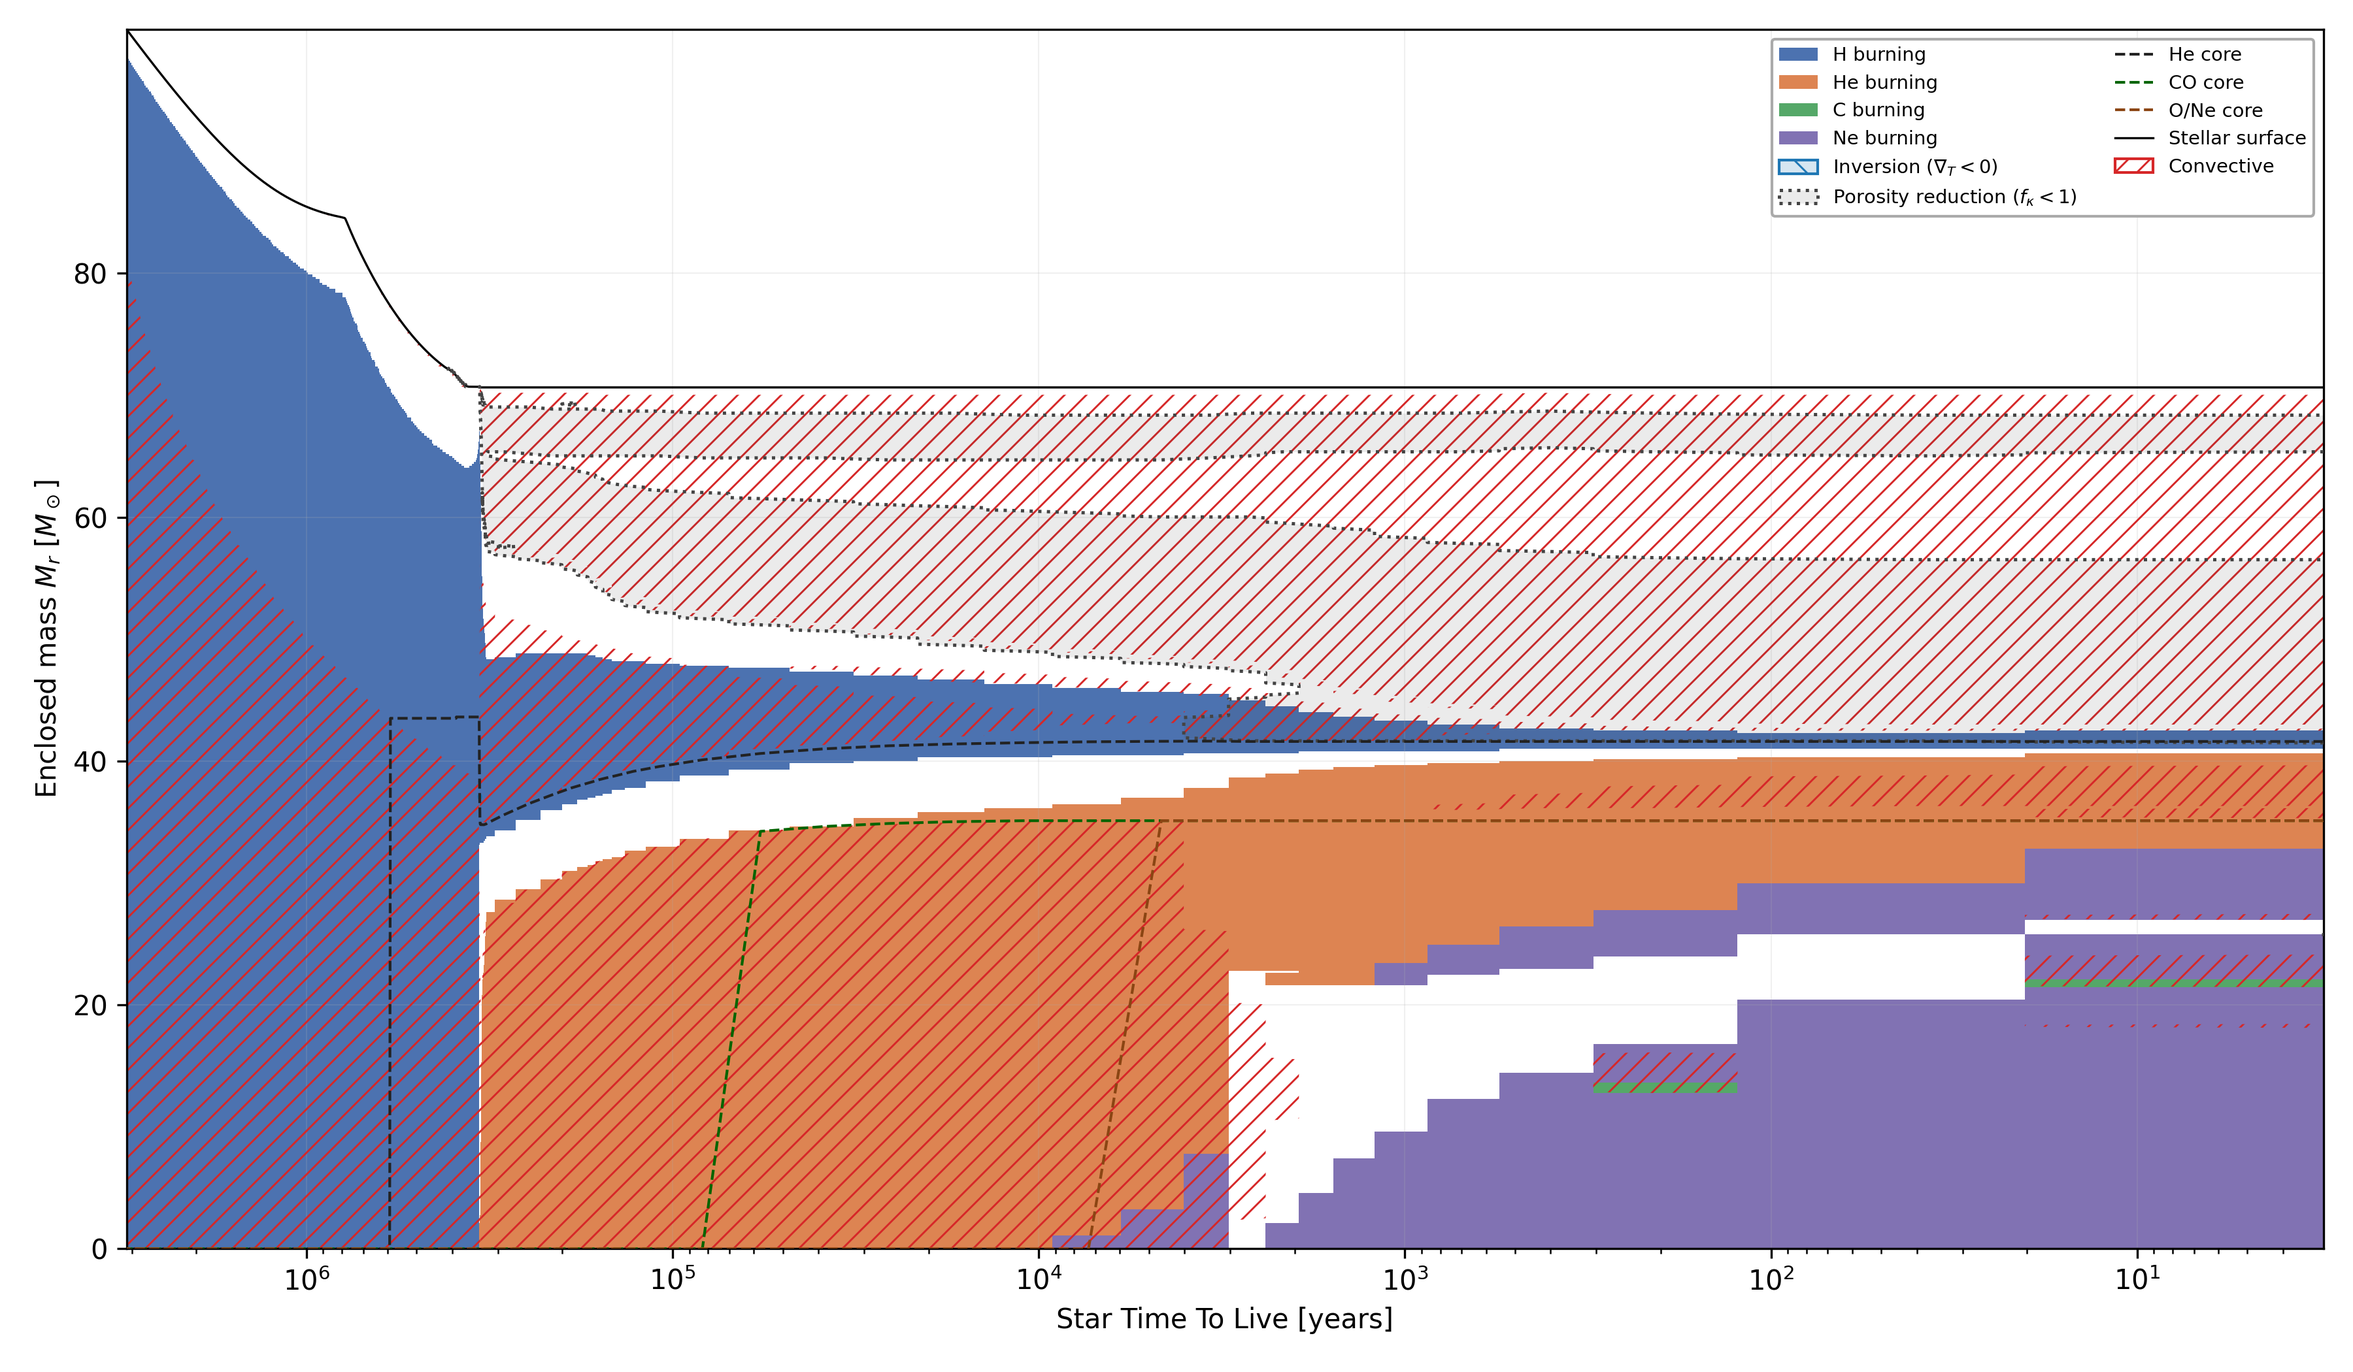
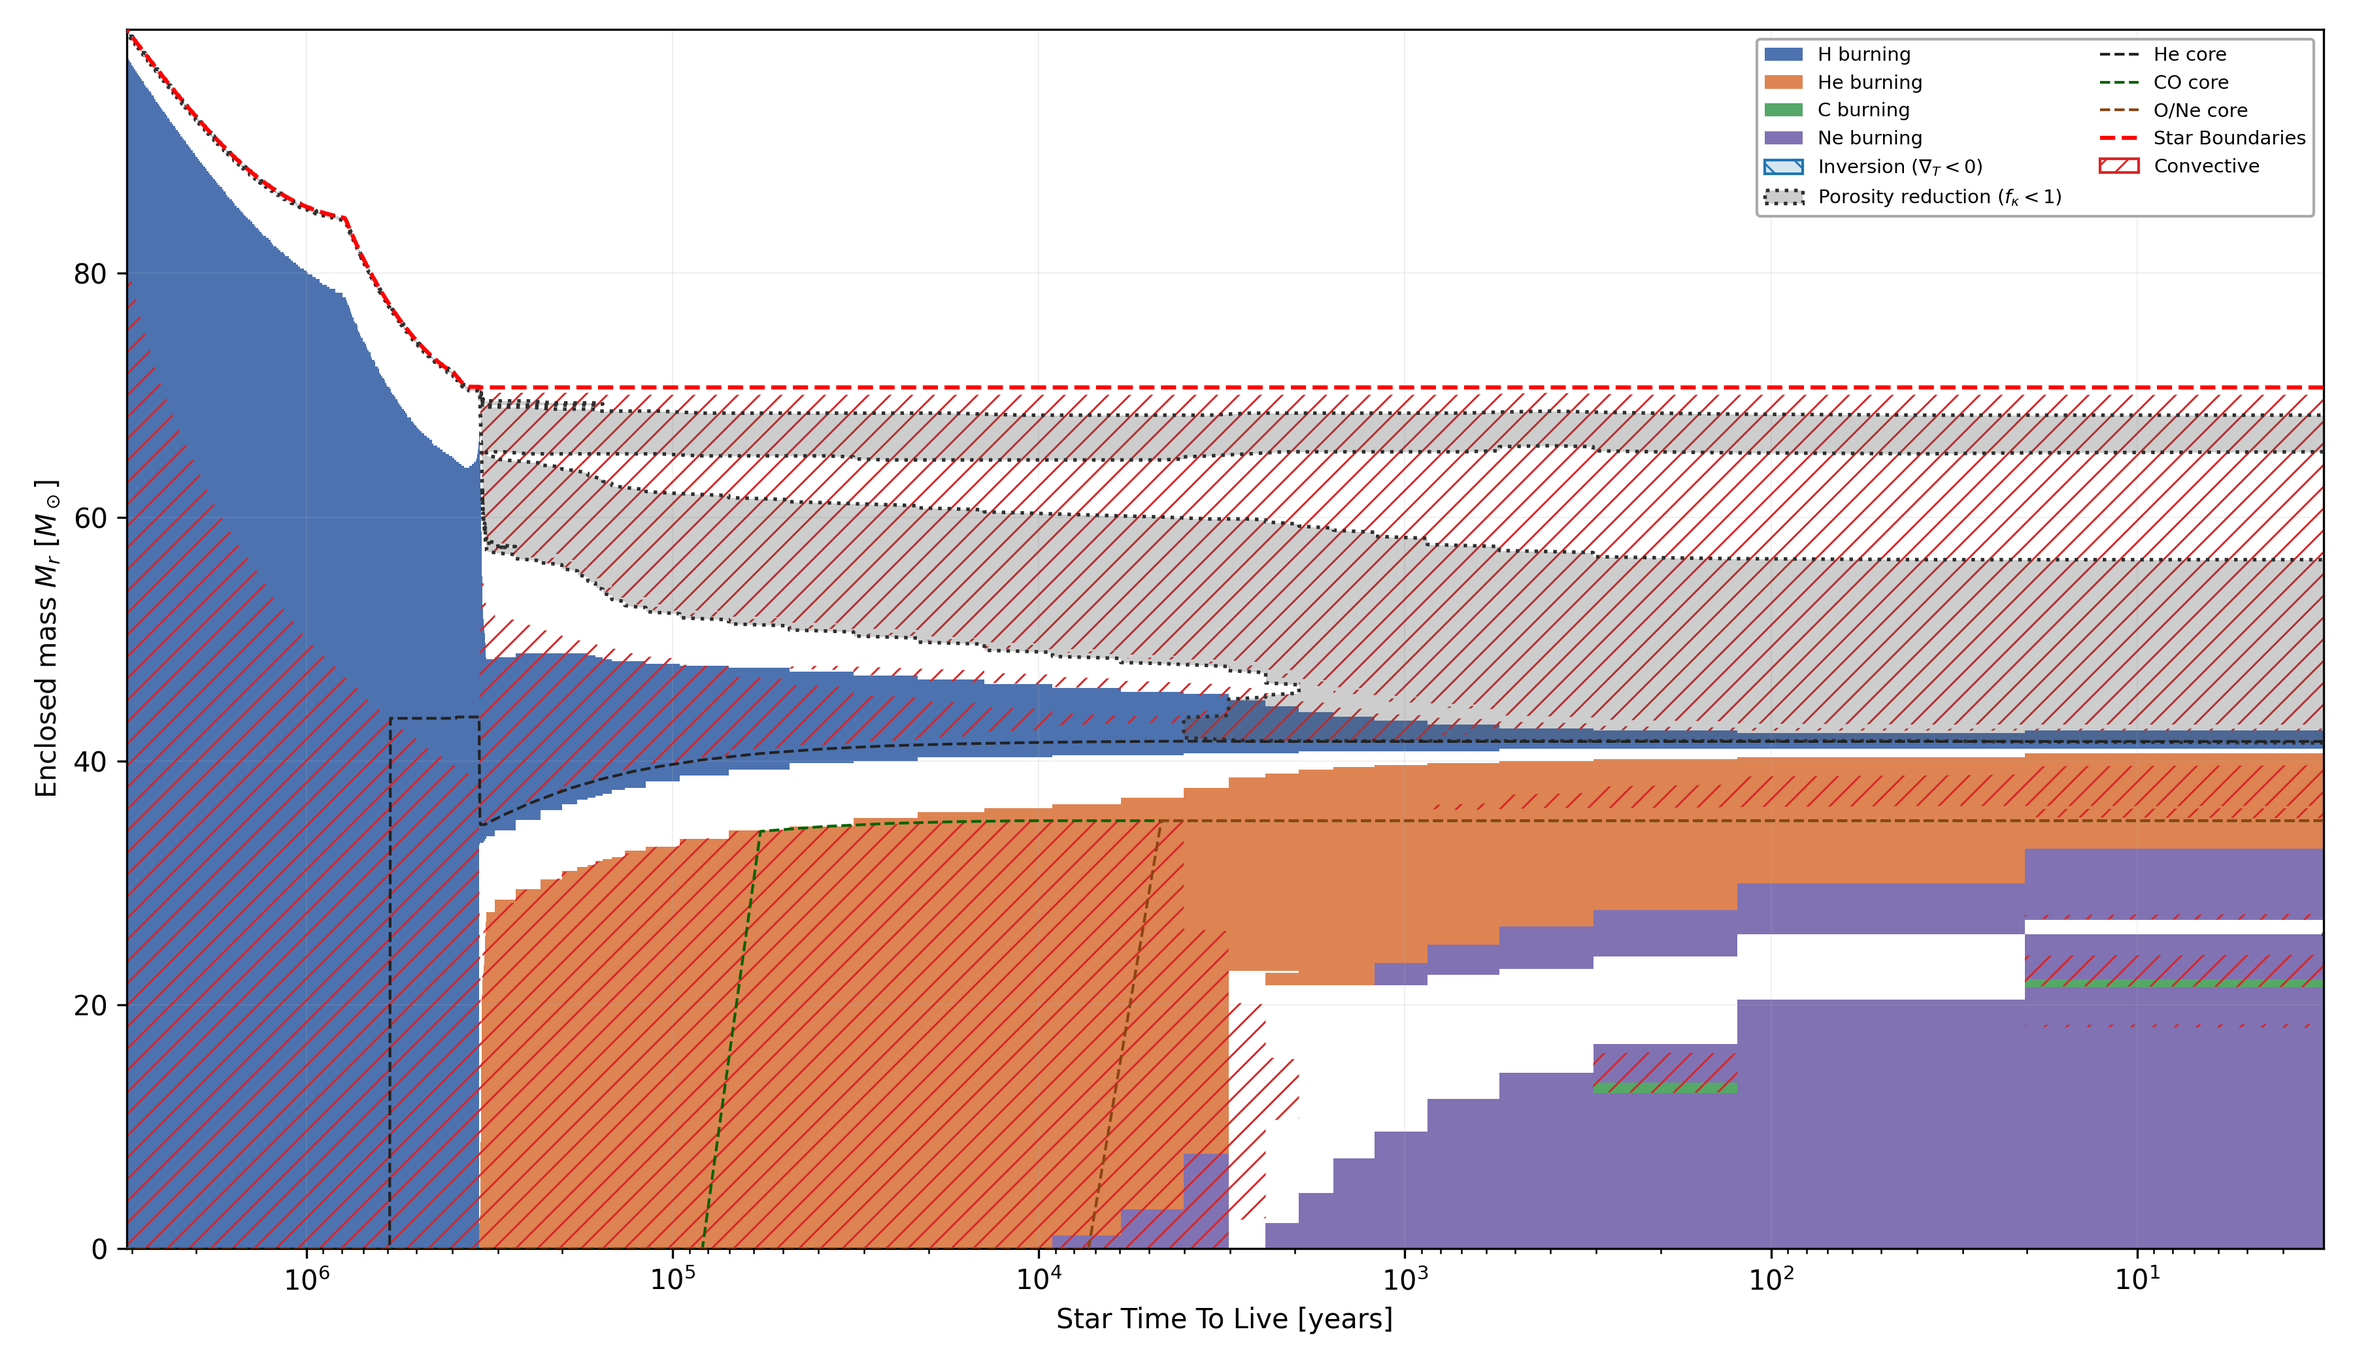
many fixes

diff --git a/kippenhahn_plot.py b/kippenhahn_plot.py
@@ -17,10 +17,6 @@ Encoded regions
 
 The heavy use of hatched, unfilled overlays means the burning colours stay
 readable even where several regions overlap.
-
-When all burning is confined to a very thin layer (for example the shell of a
-nova on a white dwarf), an extra pair of ``_zoom`` plots is produced around
-that layer so it does not vanish against the surface line.
 """
 
 import os
@@ -94,6 +90,10 @@ BURN_THRESHOLD = 1e-4
 # below this value.
 REDUCTION_LIMIT = 1.0 - 1e-6
 
+# Porosity-reduction shading is split into steps of this size (2.5 %).  Each
+# step towards a smaller opacity factor is drawn darker.
+REDUCTION_STEP = 0.025
+
 # Number of mass points in the interpolated Kippenhahn grid.
 DEFAULT_N_Y = 600
 
@@ -127,14 +127,9 @@ class KippenhahnCollector:
         self.burn_all: list[np.ndarray] = []
         self.inv_all: list[np.ndarray] = []
         # ``None`` means this run has no extra_opacity_factor column.
+        # Otherwise each entry is the reduction fraction ``1 - f_kappa`` per
+        # zone, with 0 where there is no reduction.
         self.red_all: list[np.ndarray | None] = []
-        # Enclosed-mass extent of all burning zones (used for an optional zoom
-        # when burning is confined to a very thin layer, e.g. a nova shell).
-        self.burn_min: float | None = None
-        self.burn_max: float | None = None
-        # Enclosed-mass extent of the inversion regions.
-        self.inv_min: float | None = None
-        self.inv_max: float | None = None
 
     # ------------------------------------------------------------------
     def consume(self, prof) -> None:
@@ -185,16 +180,6 @@ class KippenhahnCollector:
             0,
         ).astype(np.int8)
 
-        burning = burn > 0
-        if burning.any():
-            bm = mass[burning]
-            self.burn_min = (
-                float(bm[0]) if self.burn_min is None else min(self.burn_min, float(bm[0]))
-            )
-            self.burn_max = (
-                float(bm[-1]) if self.burn_max is None else max(self.burn_max, float(bm[-1]))
-            )
-
         # --- inversion ------------------------------------------------
         grad_t = _arr(prof, "gradT")
         if grad_t is None:
@@ -203,14 +188,6 @@ class KippenhahnCollector:
             if order is not None:
                 grad_t = grad_t[order]
             inversion = grad_t < 0.0
-        if inversion.any():
-            im = mass[inversion]
-            self.inv_min = (
-                float(im[0]) if self.inv_min is None else min(self.inv_min, float(im[0]))
-            )
-            self.inv_max = (
-                float(im[-1]) if self.inv_max is None else max(self.inv_max, float(im[-1]))
-            )
 
         # --- porosity reduction --------------------------------------
         factor = _arr(prof, "extra_opacity_factor")
@@ -221,7 +198,11 @@ class KippenhahnCollector:
                 factor = factor[order]
             # ``_arr`` turns missing values into 0; a real opacity factor is
             # always positive, so this avoids flagging NaNs as reduction.
-            reduction = (factor > 0.0) & (factor < REDUCTION_LIMIT)
+            reduction = np.where(
+                (factor > 0.0) & (factor < REDUCTION_LIMIT),
+                1.0 - factor,
+                0.0,
+            ).astype(float)
 
         self.model_numbers.append(float(getattr(prof, "model_number")))
         self.star_ages.append(float(getattr(prof, "star_age")))
@@ -266,13 +247,23 @@ class KippenhahnCollector:
             burn = np.full((len(y_grid), len(mn)), np.nan)
             mix = np.full((len(y_grid), len(mn)), np.nan)
             inv = np.zeros((len(y_grid), len(mn)), dtype=bool)
-            red = np.zeros((len(y_grid), len(mn)), dtype=bool)
+            red = np.zeros((len(y_grid), len(mn)), dtype=float)
+            # A porosity-reduction layer can be many orders of magnitude thinner
+            # than one grid cell (e.g. the near-surface layers of the 40 m and
+            # 100 m runs).  Give such layers a minimum on-screen thickness so
+            # their presence is visible instead of falling between grid points.
+            dy = float(y_grid[1] - y_grid[0]) if len(y_grid) > 1 else 0.0
+            red_min_thickness = 1.5 * dy
             for j, m in enumerate(mass_all):
                 burn[:, j] = _map_to_grid(m, burn_all[j], y_grid)
                 mix[:, j] = _map_to_grid(m, mix_all[j], y_grid)
                 inv[:, j] = _map_to_grid(m, inv_all[j].astype(float), y_grid) > 0.5
                 if red_all[j] is not None:
-                    red[:, j] = _map_to_grid(m, red_all[j].astype(float), y_grid) > 0.5
+                    red[:, j] = _reduction_to_grid(
+                        m, red_all[j], y_grid,
+                        min_thickness=red_min_thickness,
+                        surface=m[-1],
+                    )
                 surface[j] = m[-1]
             return burn, mix, inv, red
 
@@ -280,7 +271,7 @@ class KippenhahnCollector:
 
         core_lines = _load_core_lines(mass, name, mn, ymax)
 
-        self._render_pair(
+        self._render_plot(
             mass=mass,
             name=name,
             out_dir=out_dir,
@@ -294,57 +285,10 @@ class KippenhahnCollector:
             surface=surface,
             core_lines=core_lines,
             y_lim=(0.0, ymax),
-            suffix="",
-            title_suffix="",
         )
 
-        # If all burning happens in a very thin layer (e.g. the shell of a
-        # nova), the linear mass axis makes it disappear against the surface.
-        # Add a zoomed pair of plots around that layer.  The same applies to
-        # very thin inversion shells, which the coarse mass grid cannot resolve.
-        thin_target = None
-        thin_lo = None
-        thin_hi = None
-        if (
-            self.burn_min is not None
-            and ymax > 0.0
-            and 0.0 < (self.burn_max - self.burn_min) < 0.02 * ymax
-        ):
-            thin_target, span = "burn", self.burn_max - self.burn_min
-            thin_lo = max(0.0, self.burn_min - 0.15 * span)
-            thin_hi = min(ymax, self.burn_max + 0.15 * span)
-        elif (
-            self.inv_min is not None
-            and ymax > 0.0
-            and 0.0 < (self.inv_max - self.inv_min) < 0.02 * ymax
-        ):
-            thin_target, span = "inv", self.inv_max - self.inv_min
-            thin_lo = max(0.0, self.inv_min - 0.15 * span)
-            thin_hi = min(ymax, self.inv_max + 0.15 * span)
-
-        if thin_target is not None and 0.0 < (thin_hi - thin_lo) < 0.05 * ymax:
-            y_zoom = np.linspace(thin_lo, thin_hi, n_y)
-            zburn, zmix, zinv, zred = build_grids(y_zoom)
-            self._render_pair(
-                mass=mass,
-                name=name,
-                out_dir=out_dir,
-                mn=mn,
-                age=age,
-                y=y_zoom,
-                burn_grid=zburn,
-                mix_grid=zmix,
-                inv_grid=zinv,
-                red_grid=zred,
-                surface=surface,
-                core_lines=core_lines,
-                y_lim=(thin_lo, thin_hi),
-                suffix="_zoom",
-                title_suffix=" (zoom)",
-            )
-
     # ------------------------------------------------------------------
-    def _render_pair(
+    def _render_plot(
         self,
         *,
         mass,
@@ -360,8 +304,6 @@ class KippenhahnCollector:
         surface,
         core_lines,
         y_lim,
-        suffix,
-        title_suffix,
     ) -> None:
         # ---- time-to-live variant -----------------------------------
         age_order = np.argsort(age)
@@ -397,9 +339,7 @@ class KippenhahnCollector:
             log_x=True,
             invert_x=True,
             y_lim=y_lim,
-            out_path=(
-                f"{out_dir}/KIPPENHAHN_{mass}_{name}_vs_mass_xstar_age{suffix}.png"
-            ),
+            out_path=f"{out_dir}/KIPPENHAHN_{mass}_{name}_vs_mass_xstar_age.png",
         )
 
     # ------------------------------------------------------------------
@@ -481,30 +421,44 @@ class KippenhahnCollector:
                 )
             )
 
-        # 4. Porosity reduction: subtle grey fill + dotted outline.
+        # 4. Porosity reduction: grey bands (darker = stronger reduction) with
+        # a continuous outline.  The bands are kept strong enough that a thin,
+        # one-cell-tall layer is still visible.
         red_handles = []
-        if can_contour and red_grid.any():
-            cs = ax.contourf(
-                x, y, red_grid.astype(float), levels=[0.5, 1.5],
-                colors=[(0.25, 0.25, 0.25, 0.10)], zorder=4,
+        if can_contour and np.nanmax(red_grid) > 0.0:
+            red_plot = np.where(red_grid > 0.0, red_grid, np.nan)
+            max_red = float(np.nanmax(red_plot))
+            n_bins = max(1, int(np.ceil(max_red / REDUCTION_STEP)))
+            levels = np.linspace(0.0, n_bins * REDUCTION_STEP, n_bins + 1)
+            shades = np.linspace(0.60, 0.15, n_bins)
+            alphas = np.linspace(0.35, 0.75, n_bins)
+            red_colors = [
+                (float(s), float(s), float(s), float(a))
+                for s, a in zip(shades, alphas)
+            ]
+            ax.contourf(
+                x, y, red_plot, levels=levels, colors=red_colors, zorder=4,
             )
-            cs.set_edgecolor("#555555")
-            cs.set_linewidth(0.0)
+            # Continuous edge around the whole reduction region.
+            red_mask = (red_grid > 0.0).astype(float)
             ax.contour(
-                x, y, red_grid.astype(float), levels=[0.5],
-                colors="#444444", linestyles=":", linewidths=1.2, zorder=5,
+                x, y, red_mask, levels=[0.5],
+                colors="#2F2F2F", linestyles="-", linewidths=1.3, zorder=5,
             )
             red_handles.append(
                 Patch(
-                    facecolor=(0.25, 0.25, 0.25, 0.10), edgecolor="#444444",
-                    linestyle=":", linewidth=1.2,
-                    label=r"Porosity reduction ($f_\kappa<1$)",
+                    facecolor=(0.42, 0.42, 0.42, 0.55),
+                    edgecolor="#2F2F2F", linestyle="-", linewidth=1.3,
+                    label=r"Porosity reduction ($f_\kappa<1$; darker = stronger)",
                 )
             )
 
-        # 5. Surface and core boundaries.
-        ax.plot(x, surface, color="black", linewidth=0.8, zorder=4,
-                label="Stellar surface")
+        # 5. Surface and core boundaries.  Use the same red dashed style as the
+        # star boundaries in the heat maps.
+        ax.plot(
+            x, surface, color="red", linewidth=1.5, linestyle="--", zorder=6,
+            label="Star Boundaries",
+        )
         core_handles = []
         for label, colour, values in core_lines.values():
             ax.plot(x, values, color=colour, linewidth=1.0, linestyle="--",
@@ -534,7 +488,12 @@ class KippenhahnCollector:
         ]
         all_handles = (
             burn_handles + inv_handles + red_handles + core_handles
-            + [plt.Line2D([], [], color="black", linewidth=0.8, label="Stellar surface")]
+            + [
+                plt.Line2D(
+                    [], [], color="red", linewidth=1.5, linestyle="--",
+                    label="Star Boundaries",
+                )
+            ]
             + mix_handles
         )
         leg = ax.legend(
@@ -570,6 +529,61 @@ def _map_to_grid(m, values, y):
     choose = np.where(np.abs(m[idx] - y) <= np.abs(m[left] - y), idx, left)
     out = values[choose].astype(float, copy=True)
     out[y > m[-1]] = np.nan
+    return out
+
+
+def _reduction_to_grid(m, reduction, y, min_thickness=0.0, surface=None):
+    """Map per-zone porosity reduction onto the mass grid.
+
+    ``reduction`` is ``1 - extra_opacity_factor`` indexed like the ascending
+    ``m`` array, with 0 where there is no reduction.  Thin layers are widened
+    to ``min_thickness`` and assigned the strongest reduction in the layer, so
+    they remain visible instead of falling between two grid points.
+    """
+    reduction = np.asarray(reduction, dtype=float)
+    mapped = _map_to_grid(m, reduction, y)
+    out = np.where(np.isnan(mapped), 0.0, np.clip(mapped, 0.0, None))
+    mask = reduction > 0.0
+    if not mask.any():
+        return out
+
+    idx = np.flatnonzero(mask)
+    runs = np.split(idx, np.where(np.diff(idx) > 1)[0] + 1)
+    top = float(m[-1]) if surface is None else float(surface)
+    for run in runs:
+        if run.size == 0:
+            continue
+        lo = float(m[run[0]])
+        hi = float(m[run[-1]])
+        if hi < lo:
+            lo, hi = hi, lo
+        lo = max(0.0, min(lo, top))
+        hi = max(0.0, min(hi, top))
+        peak = float(np.max(reduction[run]))
+        if min_thickness > 0.0 and (hi - lo) < min_thickness:
+            centre = 0.5 * (lo + hi)
+            lo = centre - 0.5 * min_thickness
+            hi = centre + 0.5 * min_thickness
+            # Keep the full visual thickness inside the star.  A layer sitting
+            # on the surface is pushed downwards rather than clipped in half.
+            if hi > top:
+                hi = top
+                lo = max(0.0, hi - min_thickness)
+            if lo < 0.0:
+                lo = 0.0
+                hi = min(top, min_thickness)
+
+            first = int(np.searchsorted(y, lo, side="left"))
+            last = int(np.searchsorted(y, hi, side="right"))
+            if last <= first:
+                # The whole layer is thinner than one grid cell: light up the
+                # cell closest to its centre.
+                first = int(np.argmin(np.abs(y - 0.5 * (lo + hi))))
+                last = first + 1
+            out[first:last] = np.maximum(out[first:last], peak)
+
+    # Never draw reduction above the stellar surface.
+    out[y > top + 1e-12] = 0.0
     return out
 
 

diff --git a/README.md b/README.md
@@ -65,7 +65,7 @@ Usage: `watchdog.sh [--re] [run_dir] [idle_minutes]`. Pass `--re` to always star
 
 Once all simulations are finished, run `uv run main.py` to generate all the graphs in the `plotted_results` folder.
 
-Kippenhahn diagrams are generated per run by `kippenhahn_plot.py` and are included in the normal `main.py` pass. They show enclosed mass versus star time to live, with nuclear burning by fuel type, mixing regions (convection, overshoot, semiconvection, thermohaline, ...), temperature inversions (`gradT < 0`), and porosity-reduction regions (`extra_opacity_factor < 1`). When all burning is confined to a very thin layer (e.g. a nova shell on a white dwarf), the same plots are also written once more with a `_zoom` suffix around that layer. To make one directly:
+Kippenhahn diagrams are generated per run by `kippenhahn_plot.py` and are included in the normal `main.py` pass. They show enclosed mass versus star time to live, with nuclear burning by fuel type, mixing regions (convection, overshoot, semiconvection, thermohaline, ...), temperature inversions (`gradT < 0`), and porosity-reduction regions (`extra_opacity_factor < 1`). To make one directly:
 
 ```sh
 uv run kippenhahn_plot.py 10 ours_reduction --phase pre_ms
